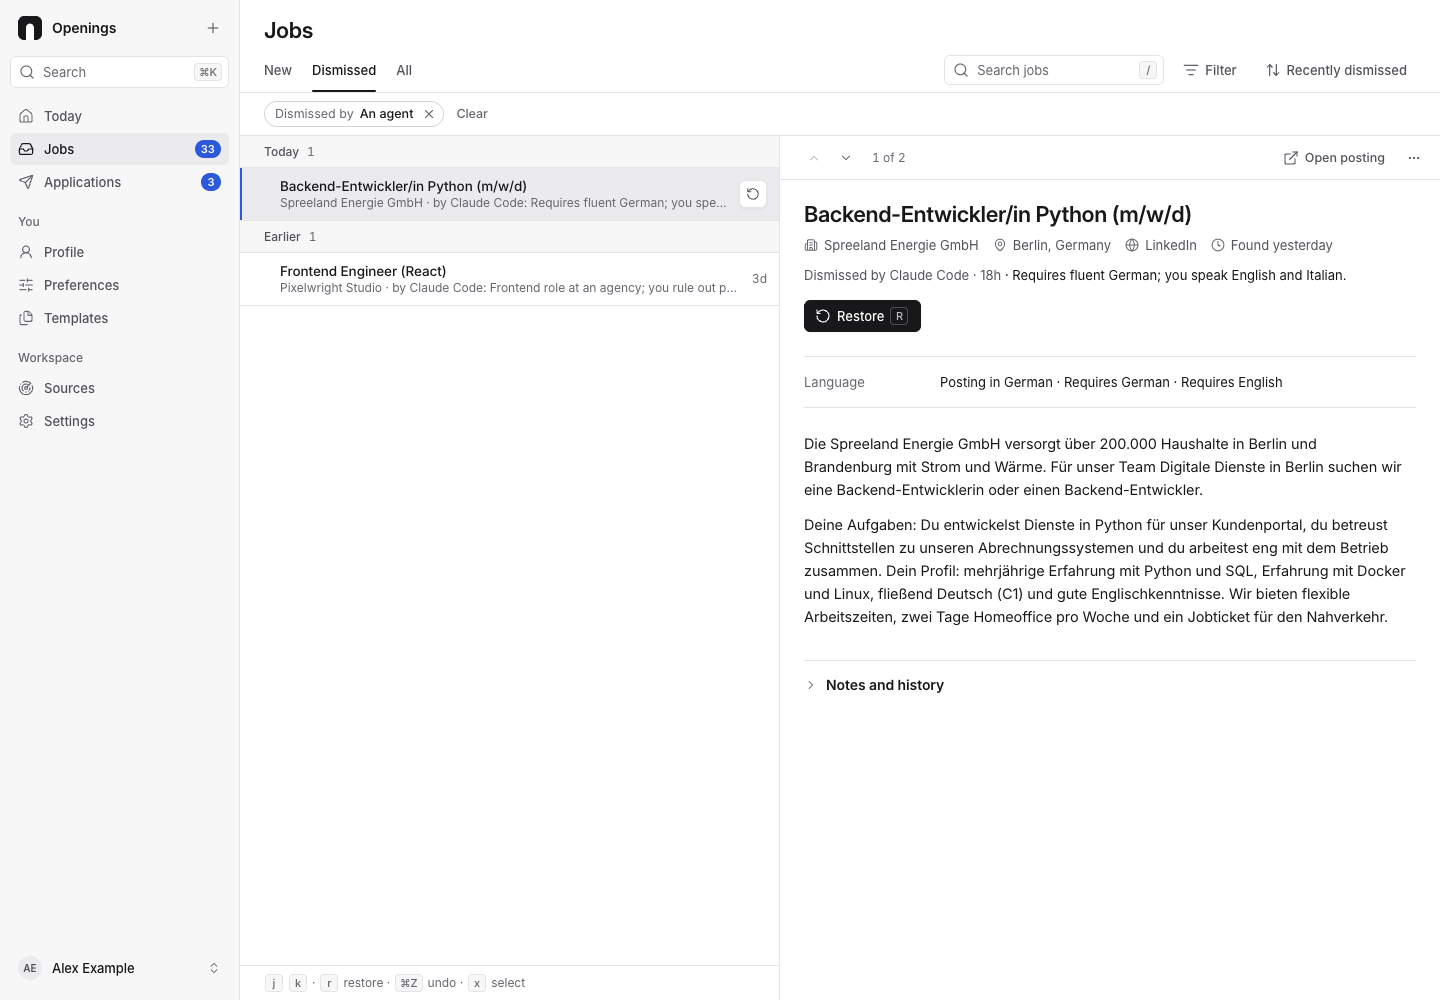
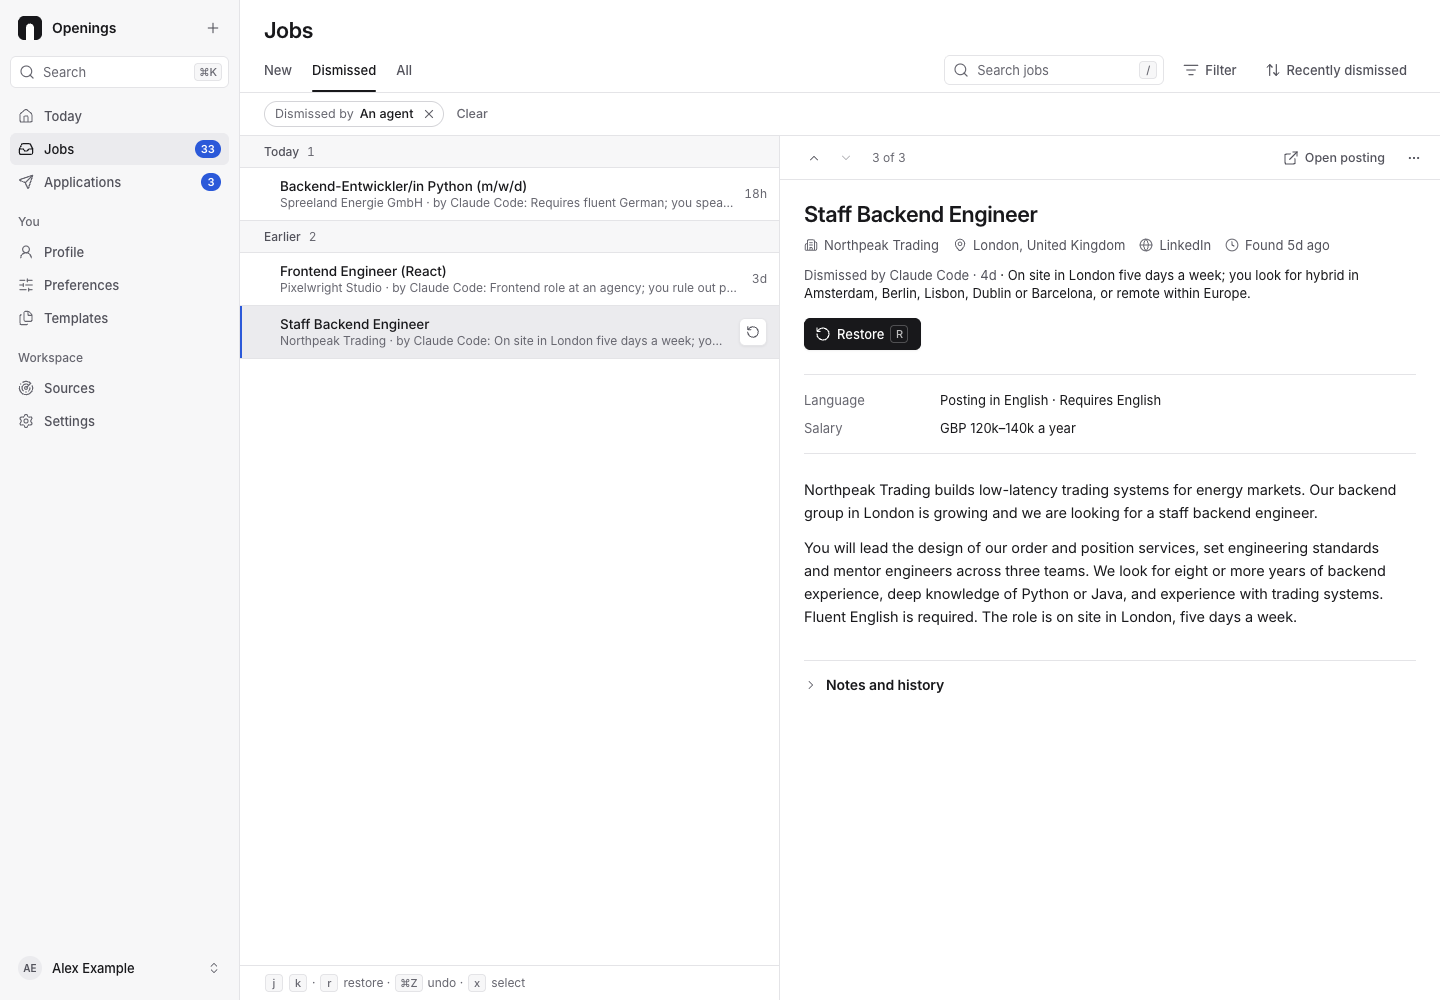
README and the dismissed screenshot show the dismissal that quotes the Preference
Refs #457 #464

diff --git a/frontend/tests/screenshots.spec.ts b/frontend/tests/screenshots.spec.ts
@@ -501,6 +501,11 @@ const SCREENS: Screen[] = [
     name: "jobs-dismissed",
     route: "jobs?section=dismissed&dismissed_by=agent",
     docs: "dismissed",
+    // The dismissal whose reason quotes a line of the Preferences.
+    open: async (page) => {
+      await page.getByText("Staff Backend Engineer").first().click();
+      await expect(page.getByText(/remote within Europe/).first()).toBeVisible();
+    },
   },
   { name: "jobs-all", route: "jobs?section=all" },
   { name: "jobs-empty", route: "jobs?q=no%20job%20has%20this%20title" },

diff --git a/README.md b/README.md
@@ -24,13 +24,13 @@
 2. **Your agent decides and prepares.** Your agent reads each job by your rules, dismisses with a reason and writes a CV and letter for the rest.
 3. **You apply, best first.** Ready is ranked by priority, then deadline. You send each one yourself.
 
-<picture><source media="(prefers-color-scheme: dark)" srcset="docs/images/flow-dark.svg"><img alt="You set it up: Profile, Preferences, Templates and Sources. Openings brings in fresh jobs. Your agent decides and prepares. You apply, best first. By hand, REST or MCP" src="docs/images/flow.svg"></picture>
+<picture><source media="(prefers-color-scheme: dark)" srcset="docs/images/flow-dark.svg"><img alt="Set up Profile, Preferences, Templates and Sources; fresh jobs arrive; your agent prepares; you apply, best first" src="docs/images/flow.svg"></picture>
 
 Change a line in your Preferences, and your agent's next decisions change with it:
 
 | Preferences › What I'm looking for | Jobs › Dismissed |
 |---|---|
-| "…or remote within Europe." | "Dismissed by Claude Code · Office in Oslo; you look for remote within Europe." |
+| "…or remote within Europe." | "Dismissed by Claude Code · On site in London five days a week; you look for … remote within Europe." |
 
 ## What Openings holds
 
